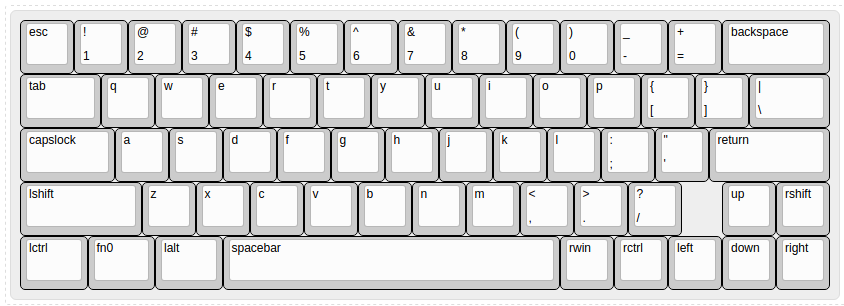
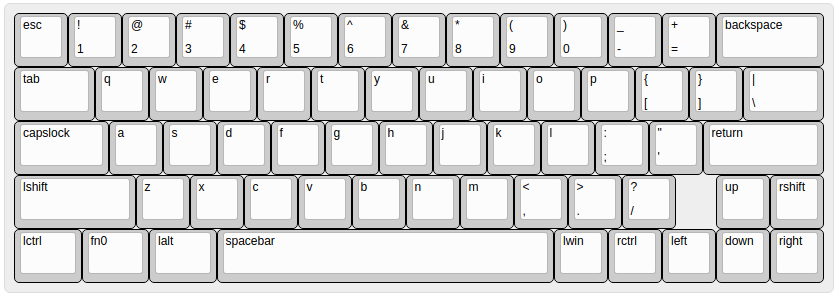
add a layer for mousemove

Changed region(s): [[0.0, 0.0, 1.0, 1.0]]

diff --git a/README.md b/README.md
@@ -4,6 +4,8 @@ Layer 1:
     ![Layer 1](https://github.com/z5n0w/gh60/raw/master/L1.png)
 Layer 2:
     ![Layer 2](https://github.com/z5n0w/gh60/raw/master/L2.png)
+Layer 3:
+    ![Layer 3](https://github.com/z5n0w/gh60/raw/master/L3.png)
 
 firmware:
 
